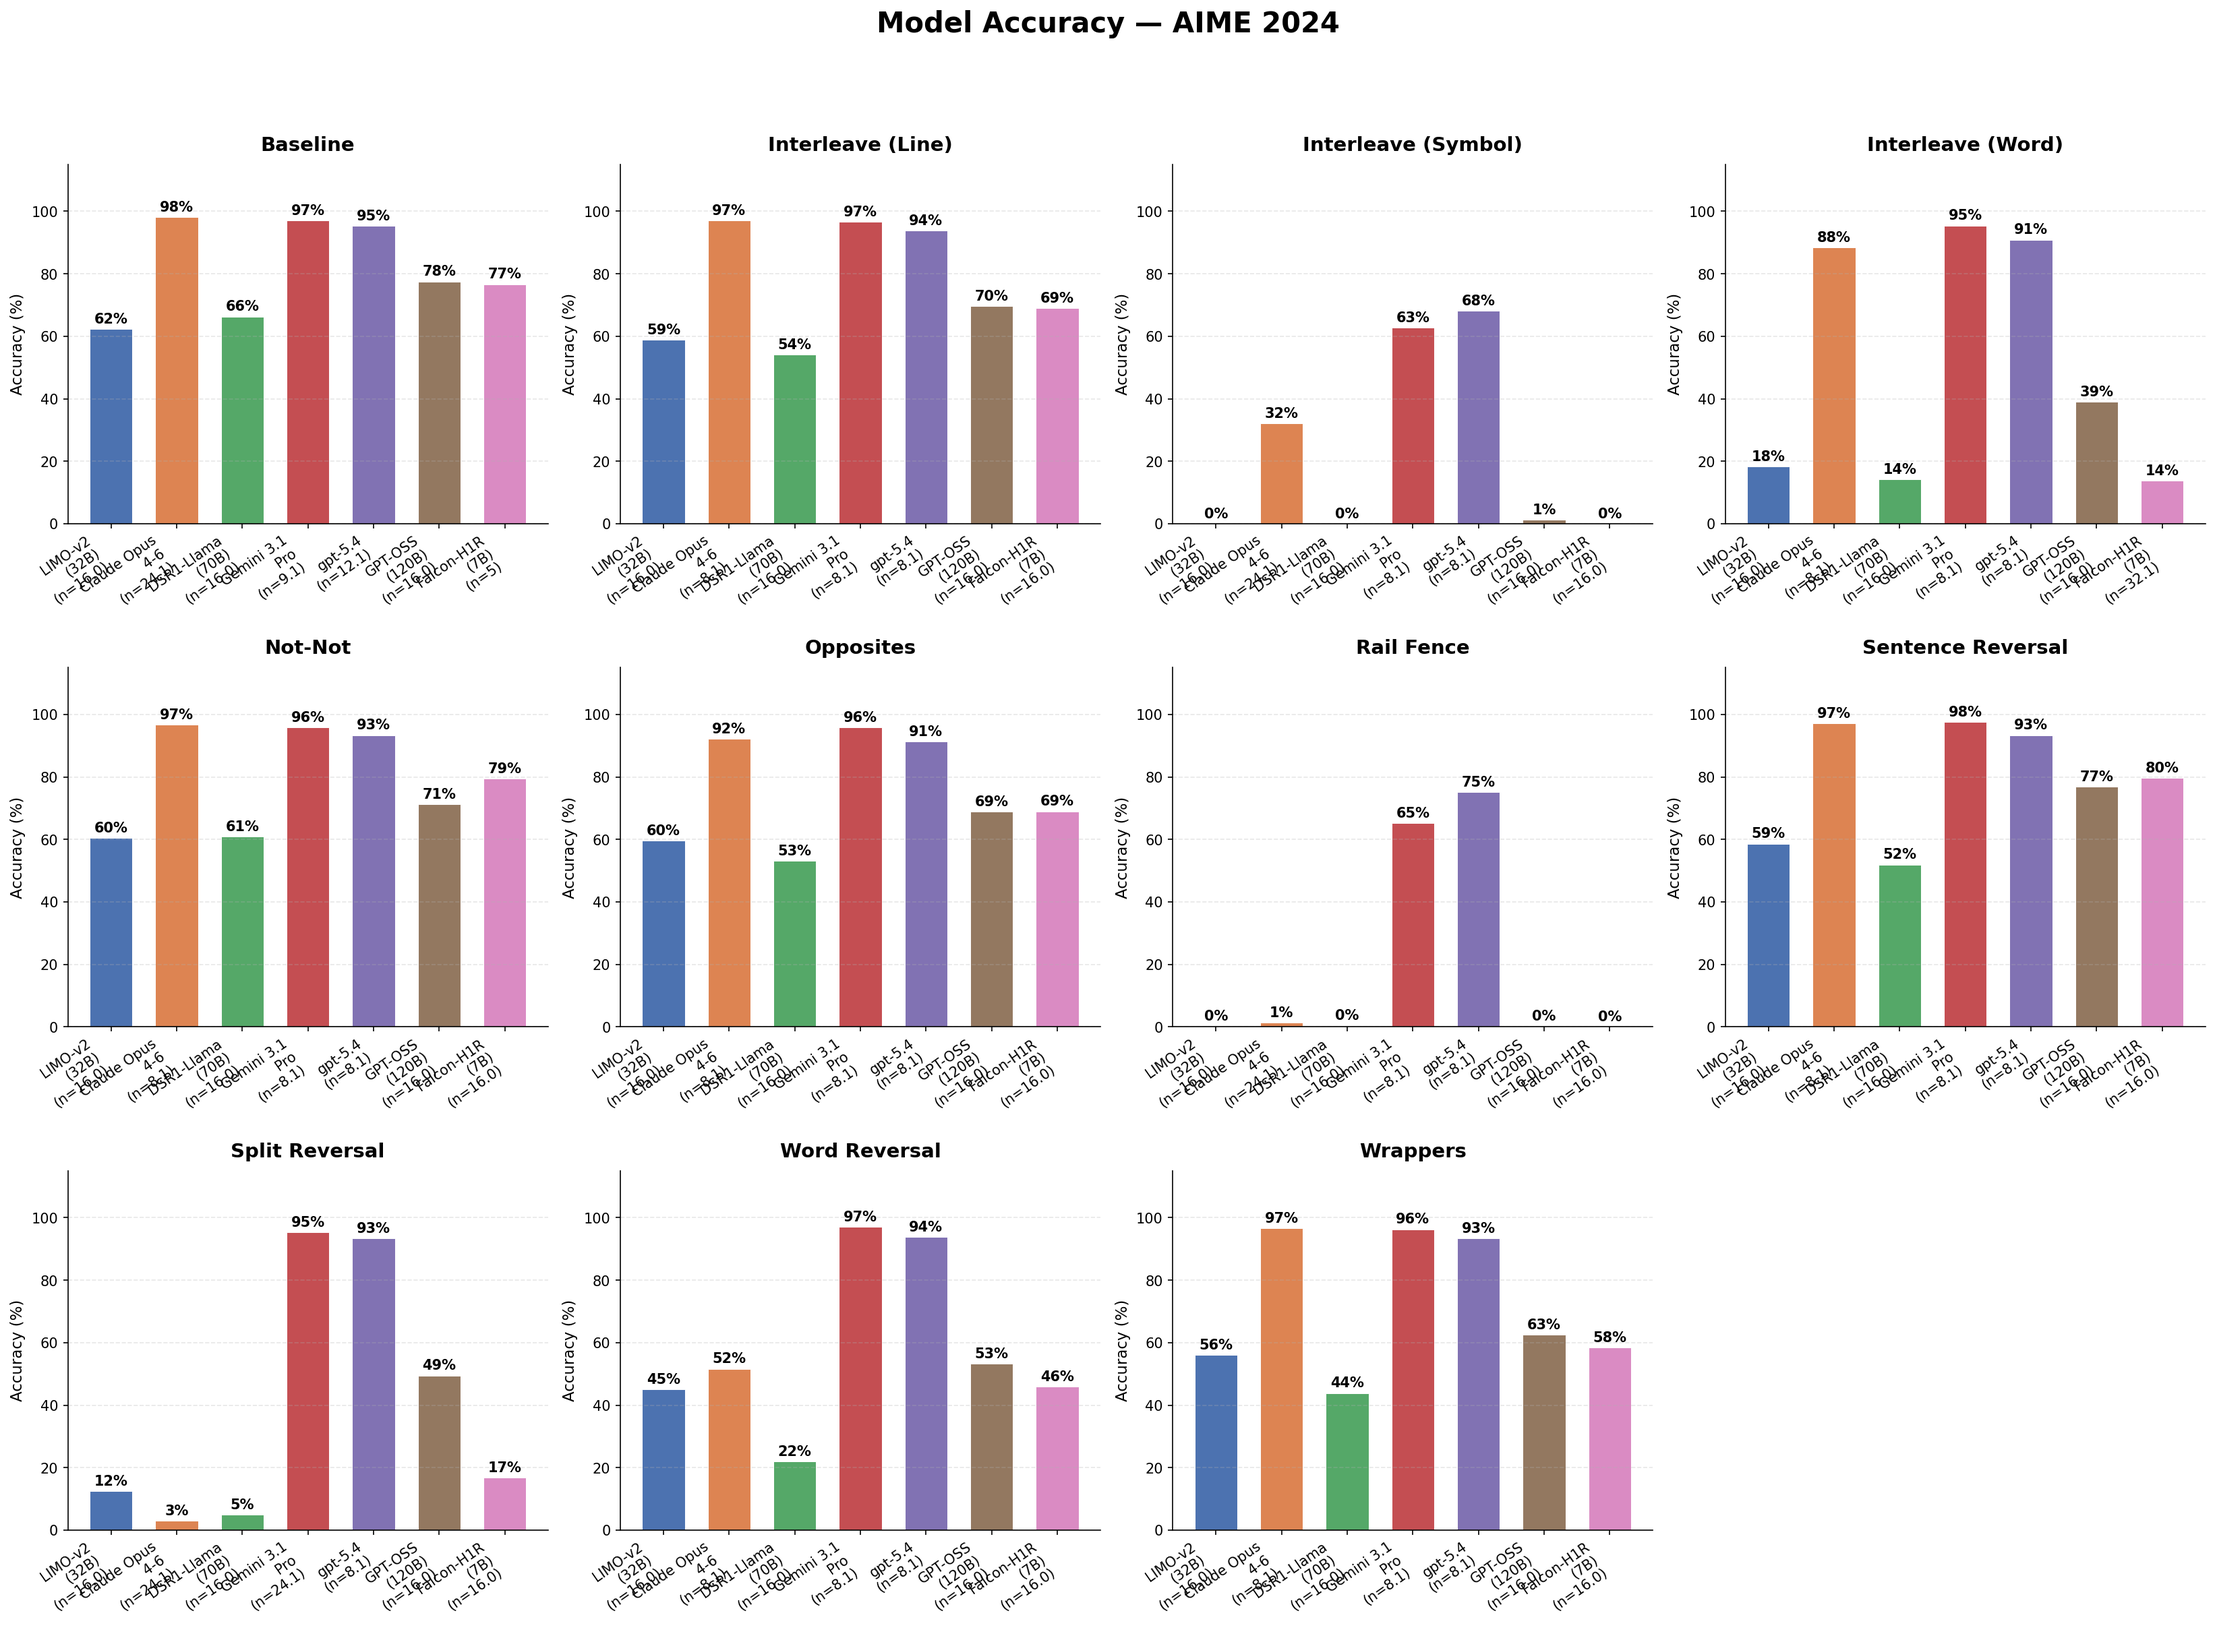
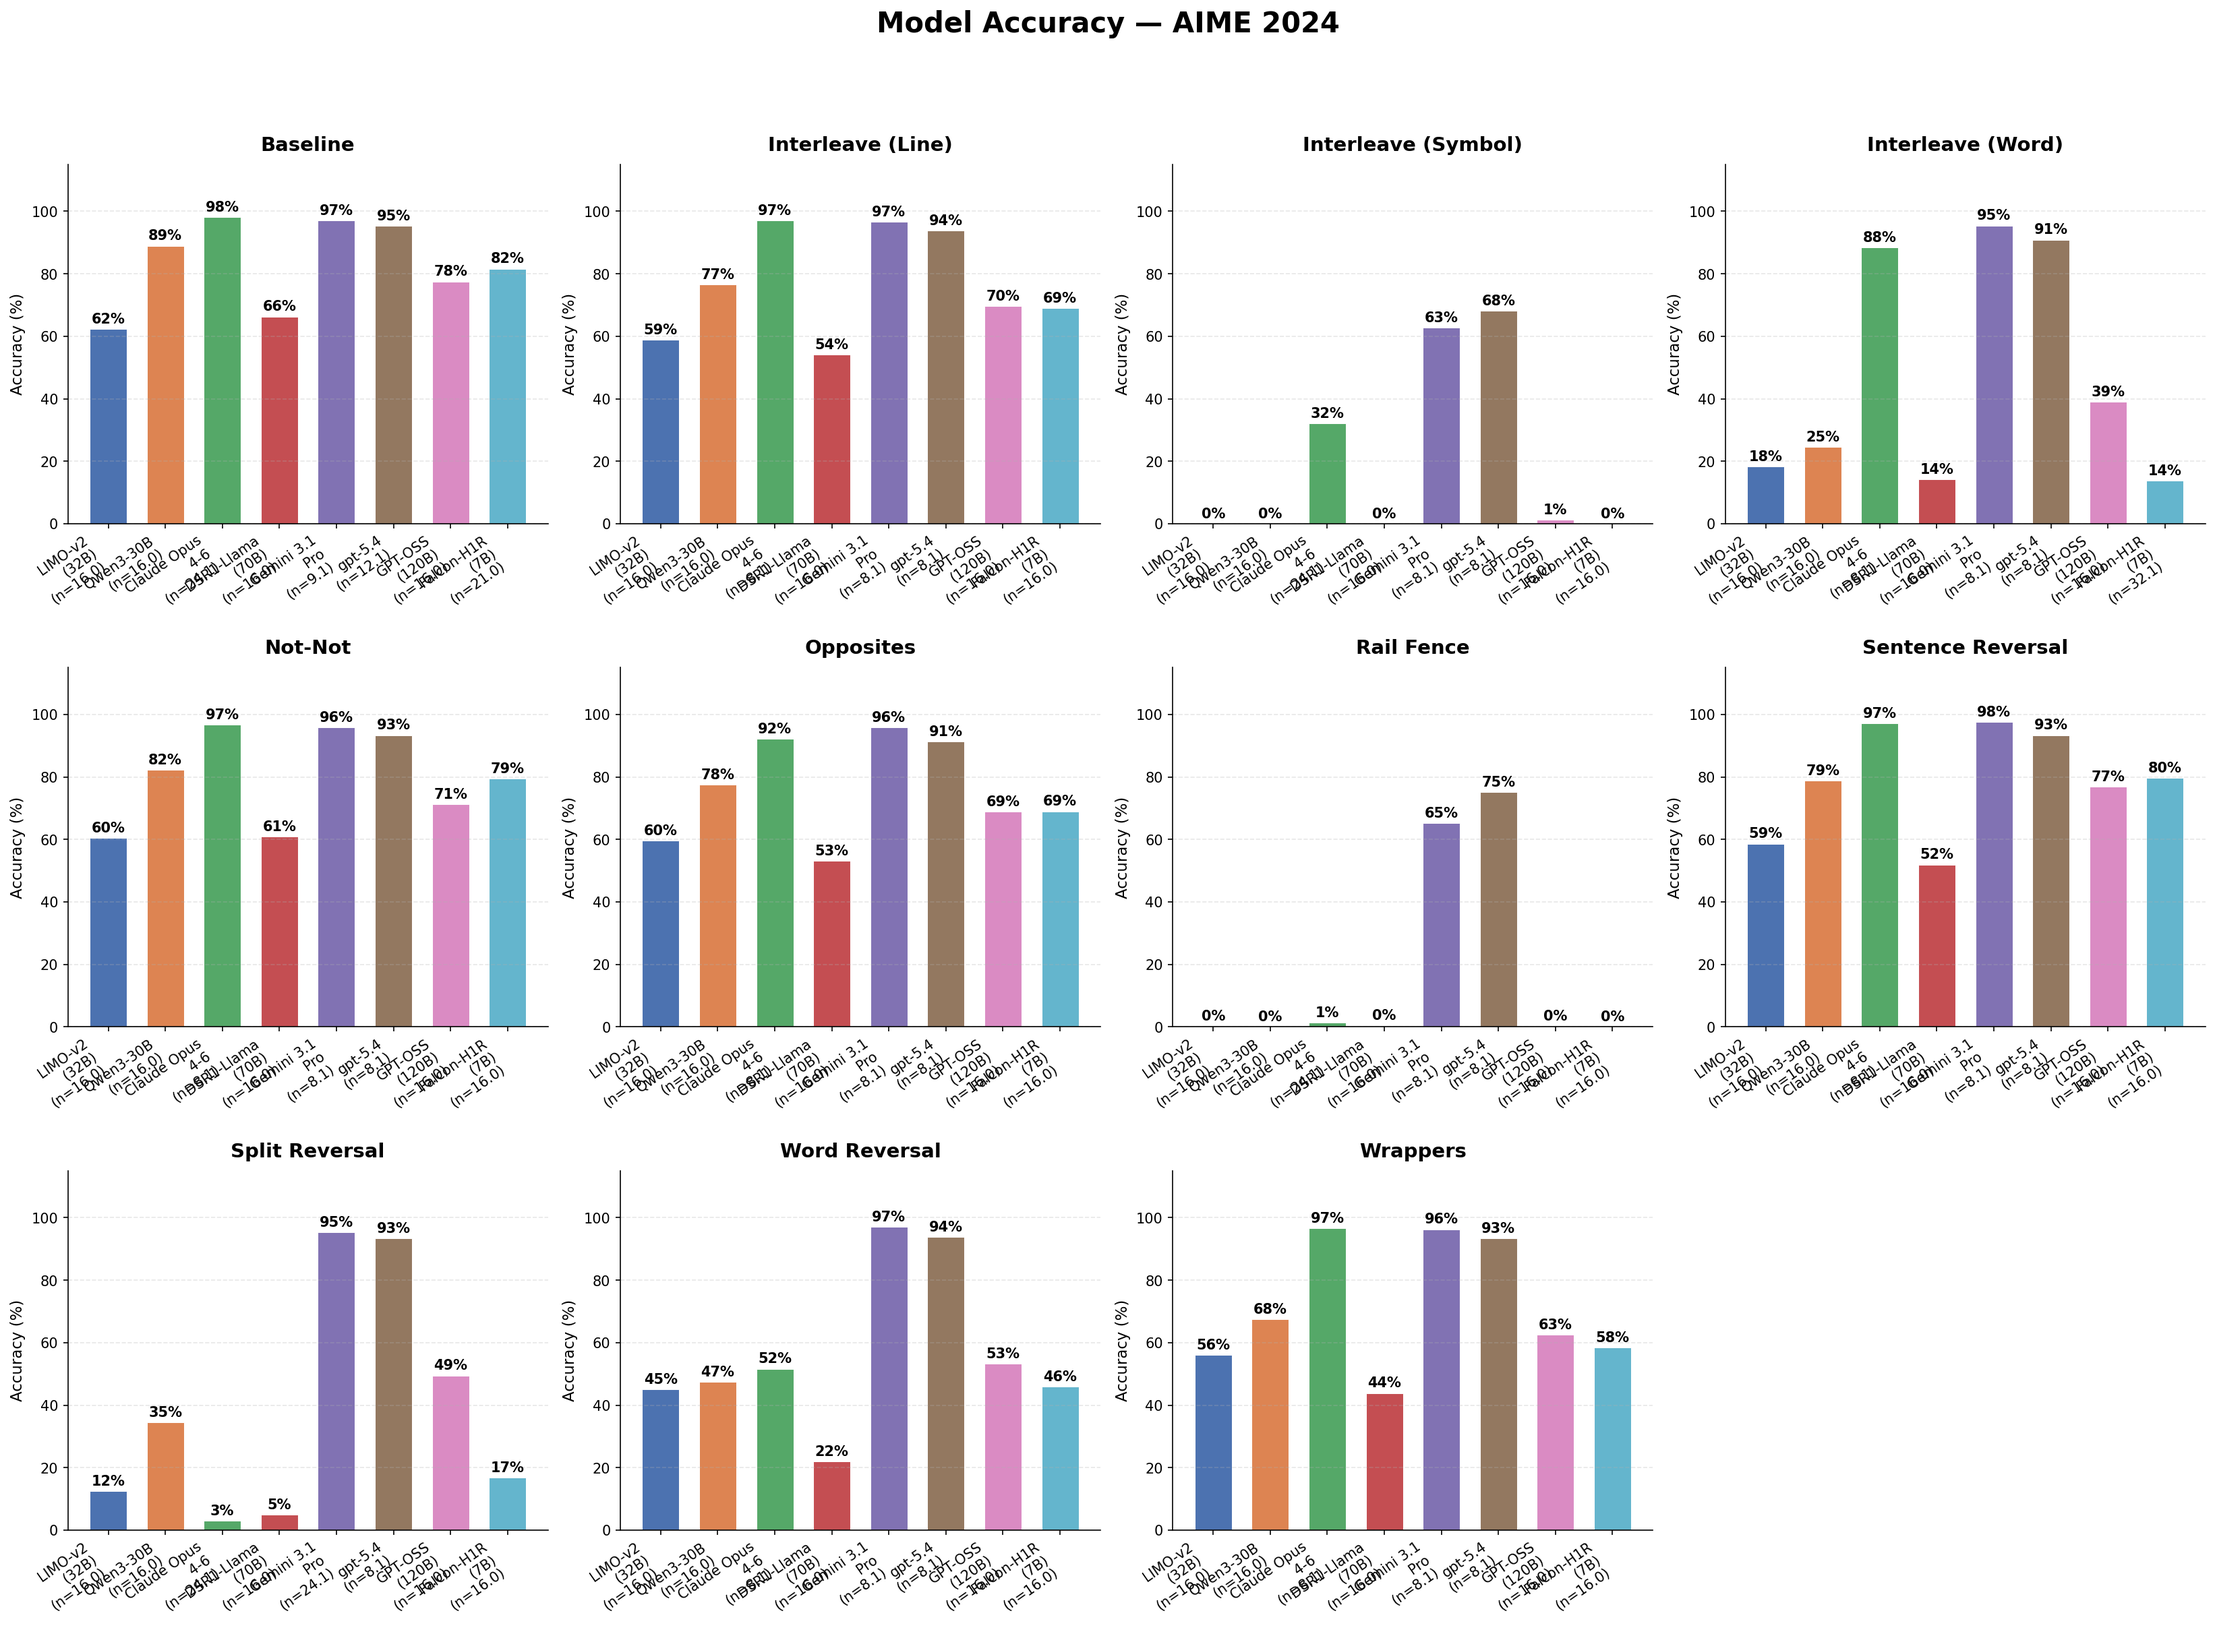
better plotting names and plot

diff --git a/experiments/analysis/plot_results.py b/experiments/analysis/plot_results.py
@@ -46,11 +46,10 @@ TECHNIQUE_LABELS = {
 # Shorten model names for x-axis
 MODEL_SHORT_NAMES = {
     "GAIR_LIMO-v2":                                     "LIMO-v2\n(32B)",
-    "HAIR_LIMO-v2":                                     "LIMO-v2\n(32B)",   # typo alias
     "tiiuae_Falcon-H1R-7B":                             "Falcon-H1R\n(7B)",
     "openai_gpt-oss-120b":                              "GPT-OSS\n(120B)",
     "deepseek-ai_DeepSeek-R1-Distill-Llama-70B":        "DSR1-Llama\n(70B)",
-    "Qwen_Qwen3-235B-A22B-Thinking-2507":               "Qwen3-235B",
+    "Qwen_Qwen3.5-35B-A3B":                             "Qwen3.5-35B",
     "Qwen_Qwen3-30B-A3B-Thinking-2507":                 "Qwen3-30B",
     "gemini-3.1-pro-preview":                           "Gemini 3.1\nPro",
     "gemini-2.5-flash":                                 "Gemini 2.5\nFlash",
